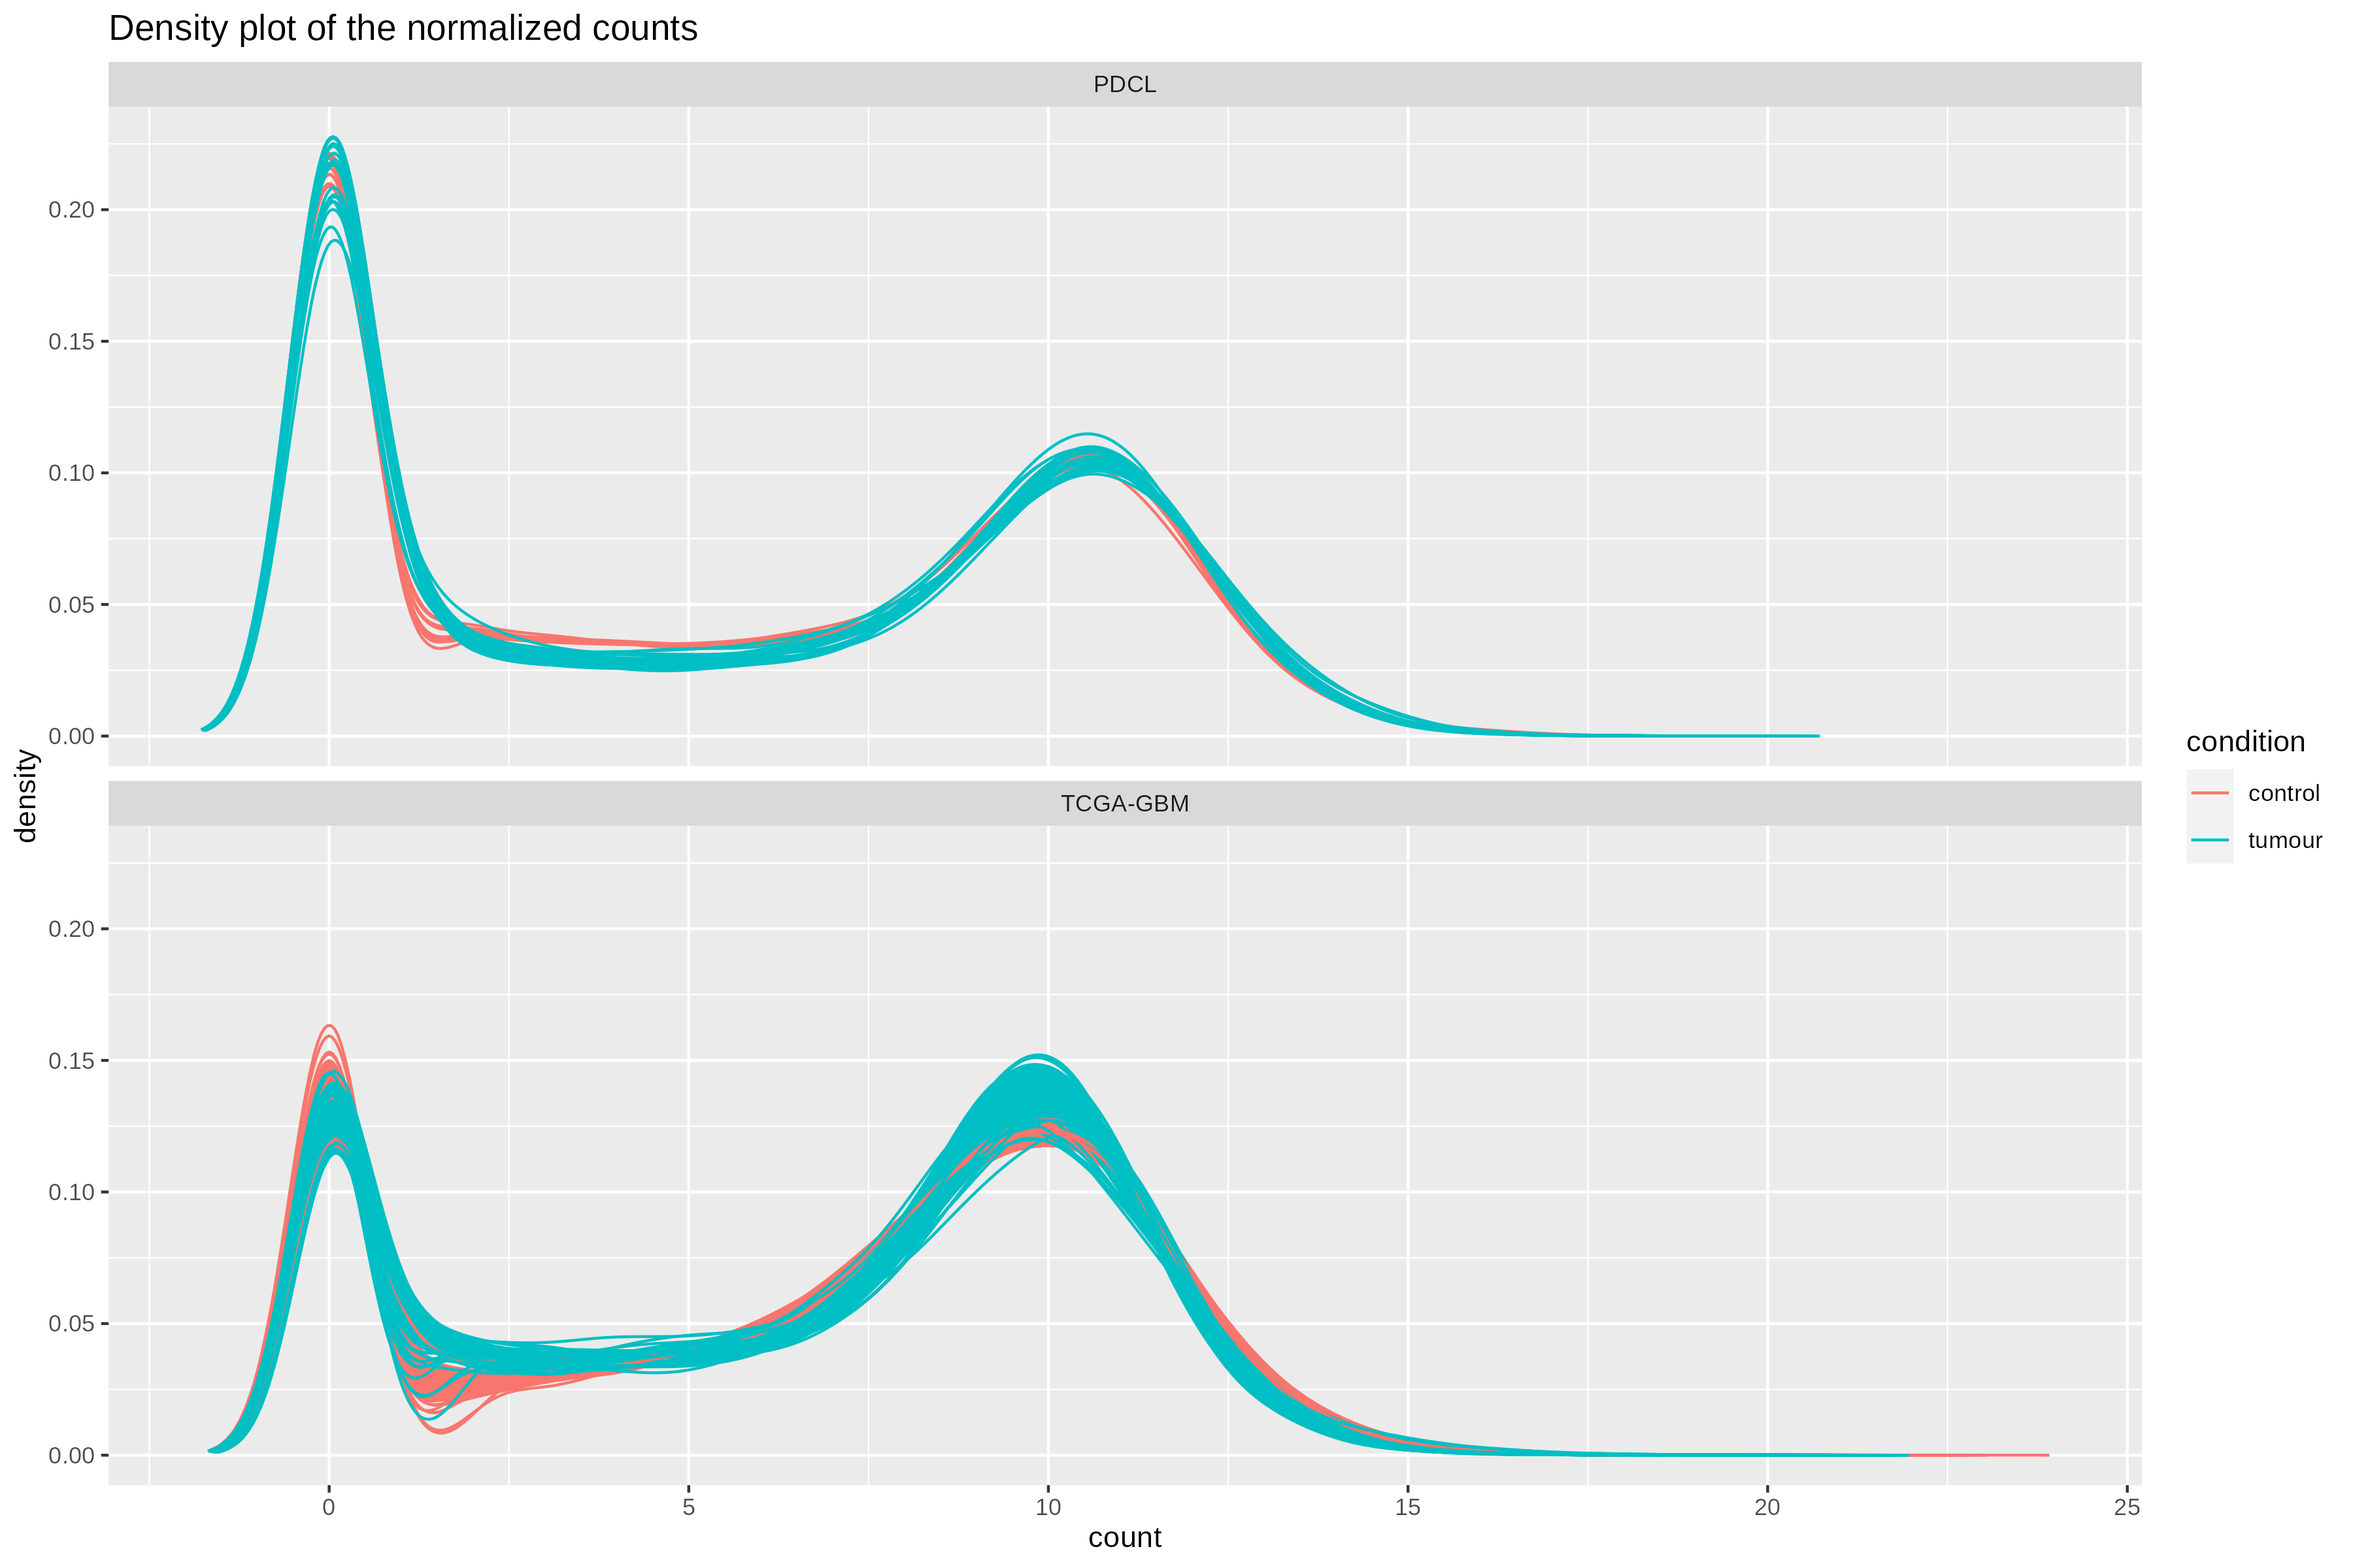
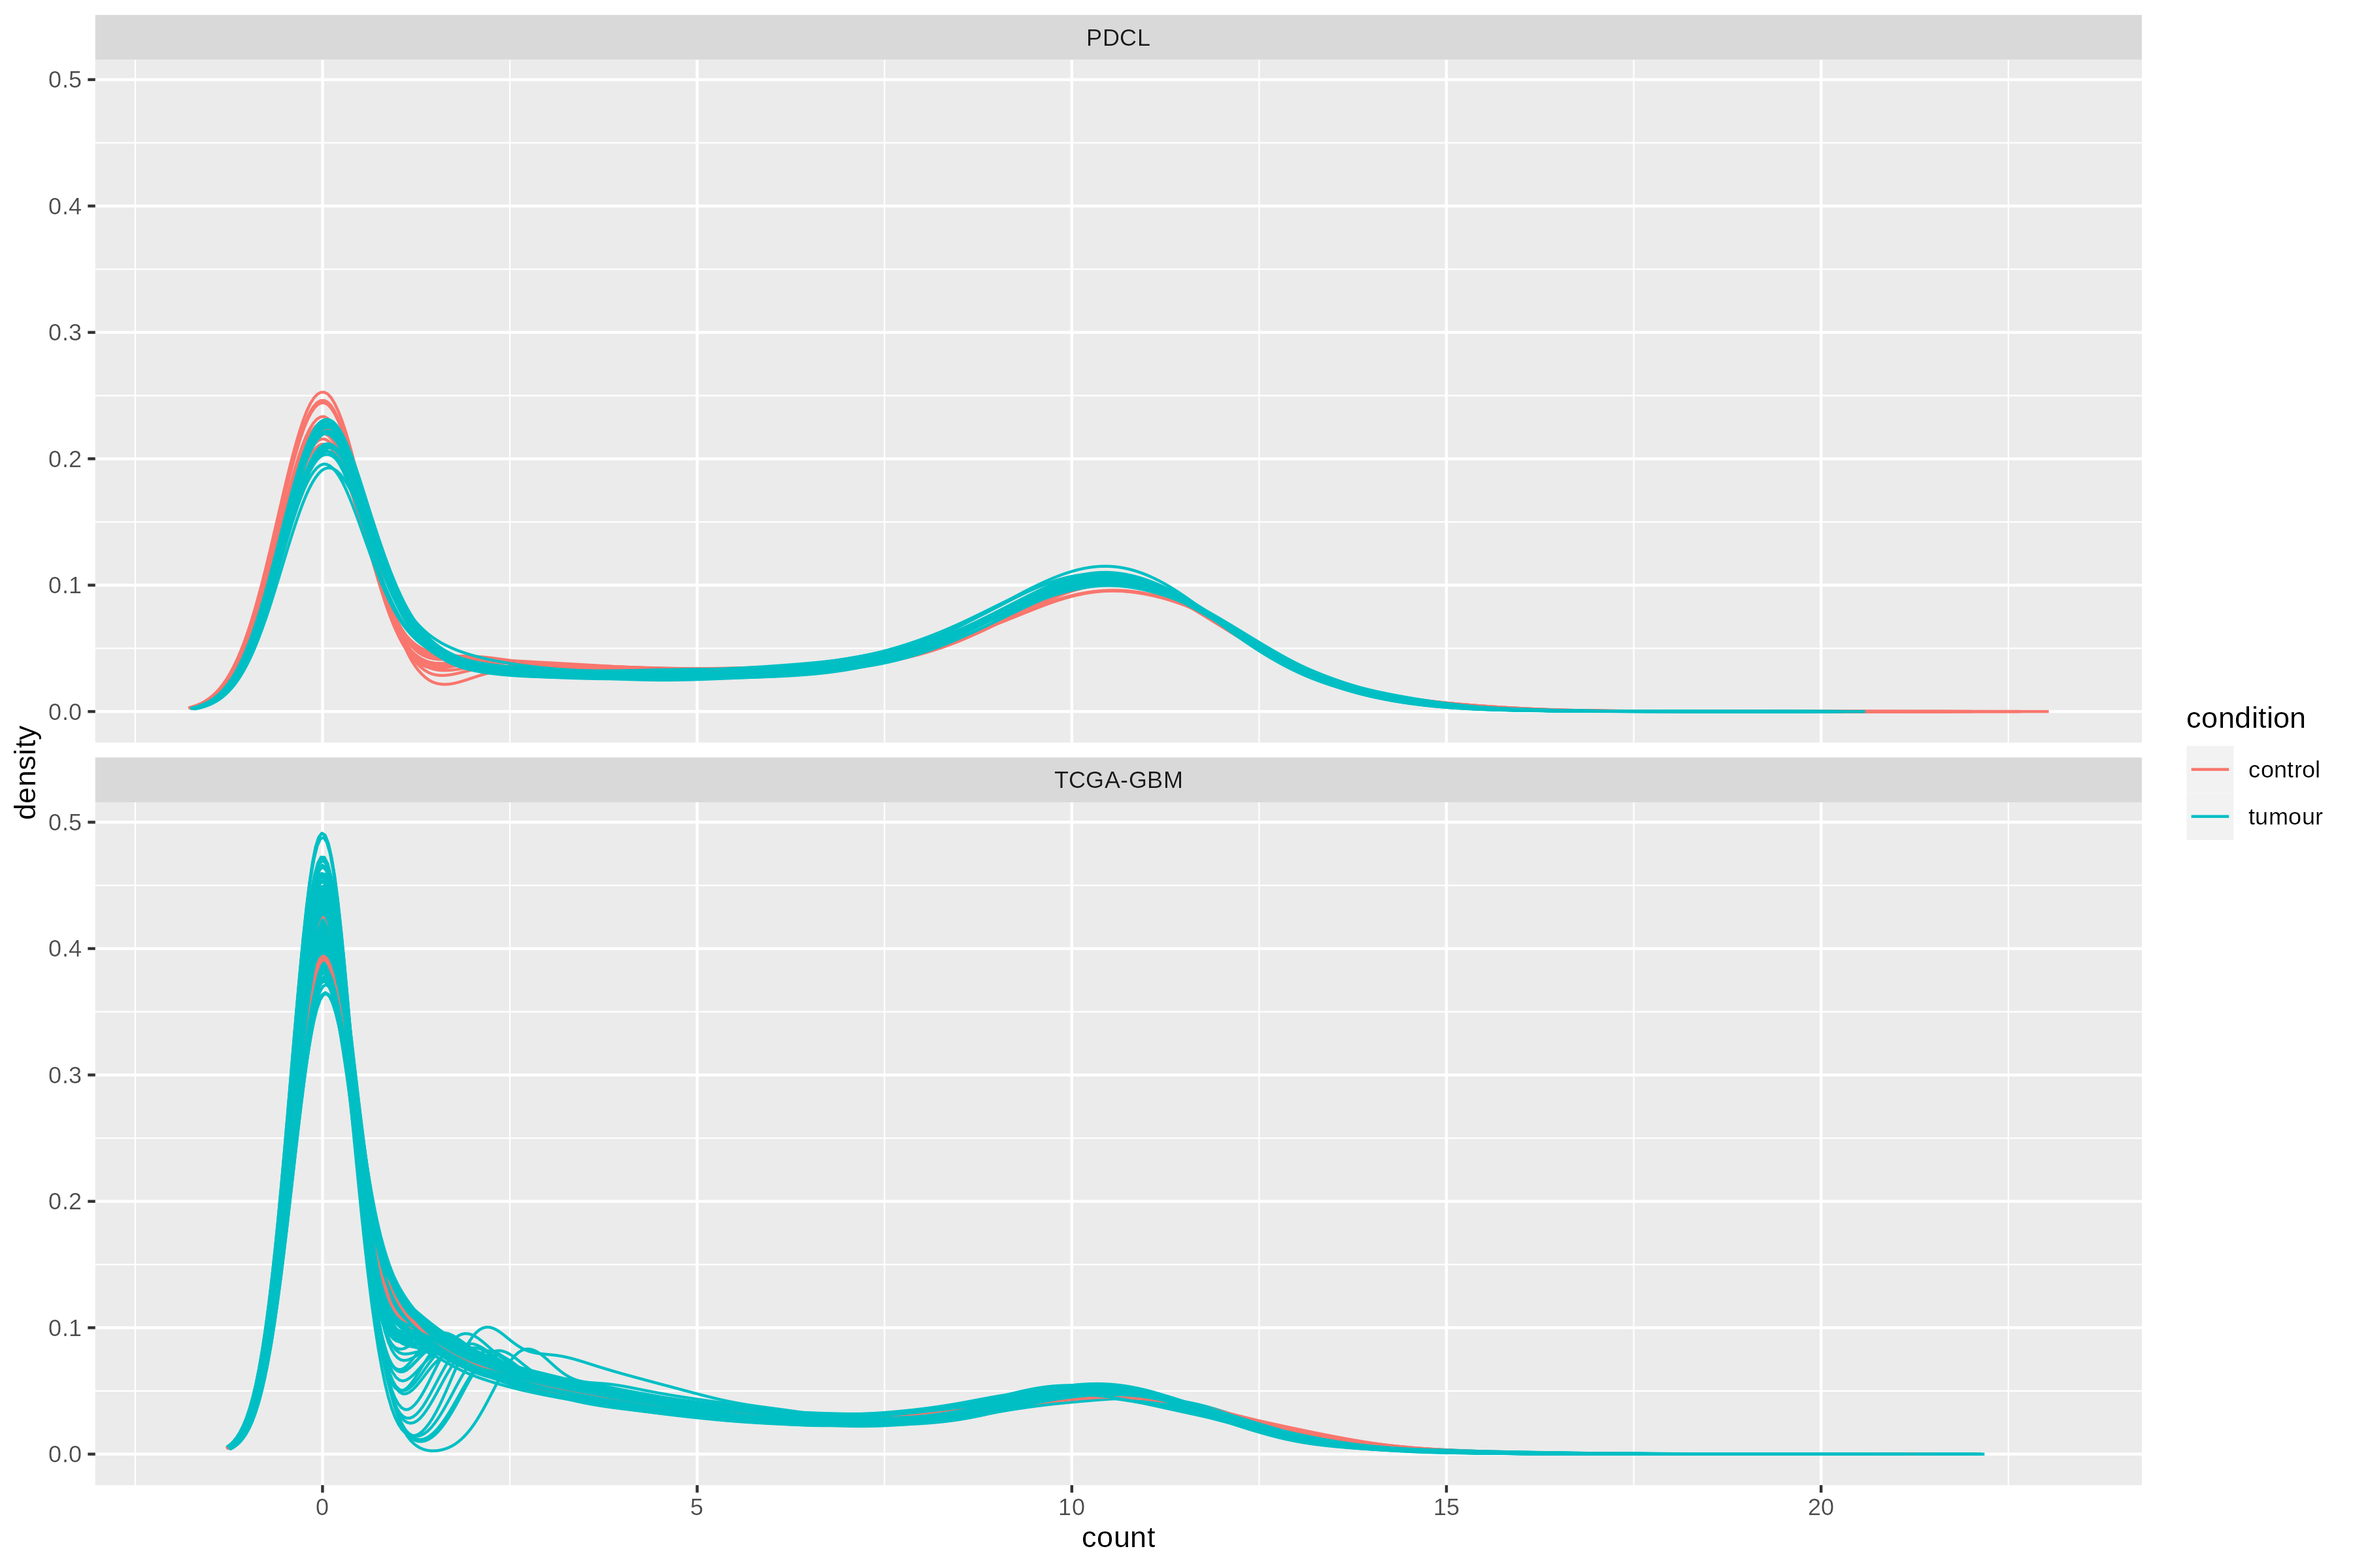
Update validation of controls section with original controls

diff --git a/manuscript/result.tex b/manuscript/result.tex
@@ -2,22 +2,25 @@
 
 \subsection{Validation of the controls}
 
-To perform the \acrlong{de} analysis, we need to ensure that (1) the controls can be separated from the tumours; (2) the controls are similar to each others; (3) general count distribution is similar between control and tumour.
+When conducting \acrlong{de} analysis, the user has to ensure that controls are separated from the the tumours.
+Homogeneity among the controls, similarity between the control and tumour counts distribution are also factors that can improve the results.
 Despite that the controls should be separated from the tumours, it has been observed for different types of cancer in \acrshort{tcga} that the gene expression follows a similar distribution between the two conditions \cite*{Decamps2021}.
 
 \begin{figure}
-    \includegraphics[width=\textwidth]{img/pca_plot}
-    \caption{
-        Plot of the \acrshort{pca} on the counts of control and glioblastoma samples of the \acrshort{pdcl} and \acrshort{tcga} datasets.
-        Counts were normalized using the pseudo-log method of the DESeq2 package ( $log_2(count+1)$ ).
-    }
-    \label{fig:pca-plot}
+    \begin{center}
+        \includegraphics[height=0.8\textheight]{img/pca_plot}
+        \caption{
+            Plot of the \acrshort{pca} on the counts of control and glioblastoma samples of the \acrshort{pdcl} and \acrshort{tcga} datasets.
+            Counts were normalized using the pseudo-log method of the DESeq2 package ( $log_2(count+1)$ ).
+        }
+        \label{fig:pca-plot}
+    \end{center}
 \end{figure}
 
 Figure \ref*{fig:pca-plot} shows the results of a \acrfull{pca} performed on the counts normalized using the pseudo-log method from the DESeq2 package ( $log_2(count+1)$ ).
-It can be seen that the controls are clearly separated from the tumours  in both the \acrshort{pdcl} and the \acrshort{tcga} datasets by the first component of the \acrshort{pca}.
-The first principal component explain 40\% of the variance in \acrshort{tcga} and 24\% in \acrshort{pdcl}.
-In both datasets, the tumours samples tend to spread more accross the second component than the controls which seems to pack together.
+It can be seen that the controls are separated from the tumours  in both the \acrshort{pdcl} and the \acrshort{tcga} datasets by the first two components of the \acrshort{pca}.
+The first component explain more variances in the data in the \acrshort{pdcl} datasets with 21\% compared to 8\% with \acrshort{tcga}.
+In the \acrshort{tcga} datasets, the tumours samples tend to spread more accross the second component than the controls which seems to pack together while in the \acrshort{pdcl} dataset, controls are more scattered. 
 
 \begin{figure}
     \includegraphics[width=\textwidth]{img/density_plot}
@@ -30,9 +33,7 @@ In both datasets, the tumours samples tend to spread more accross the second com
 \end{figure}
 
 Figure \ref*{fig:density-plot} shows the distribution of normalized gene counts in controls and tumours among both datasets.
-Distribution of counts is similar among controls and tumours in both datasets.
-It should be noted though that in \acrshort{tcga}, the density of normalized counts for the peak at 0 is slightly higher in the controls while it is higher in the tumours for the peak at 10.
-Density value at the peak is closer between controls and tumours in the \acrshort{pdcl}.
+Distribution of counts is similar among controls and tumours in both datasets with a similar intensity on the peak between controls and tumours with respect to the dataset.
 
 Together, these data seems to indicate that the controls choosen are suitable to perform the \acrlong{de} analysis then pathway enrichment.
 
